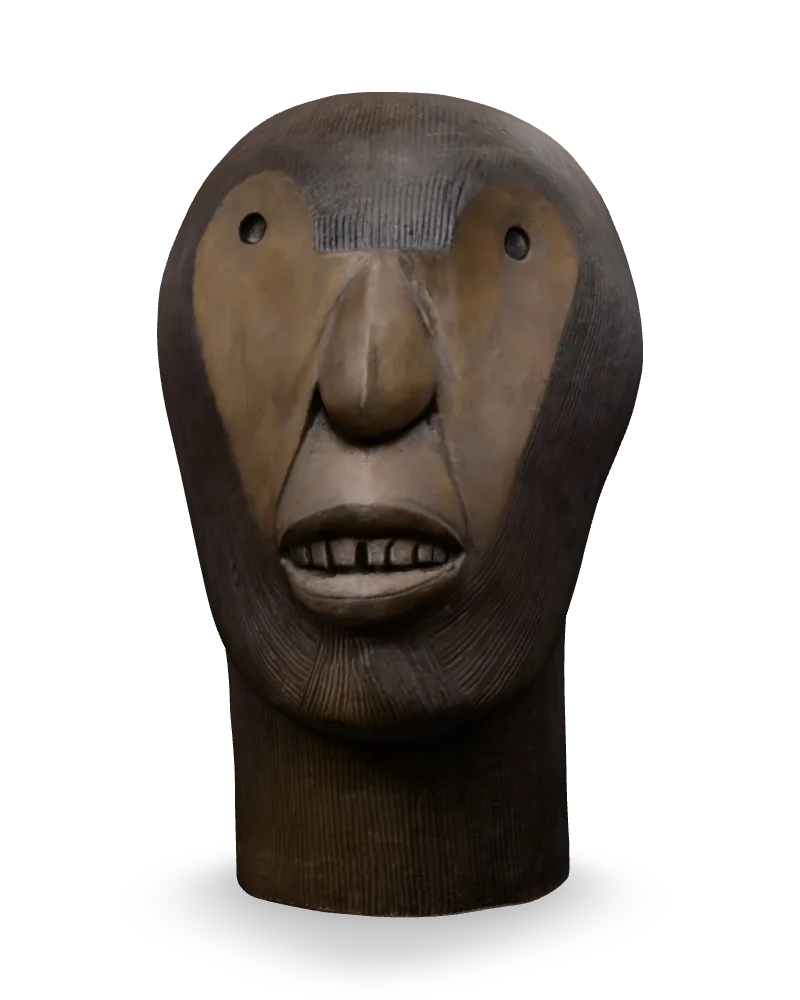
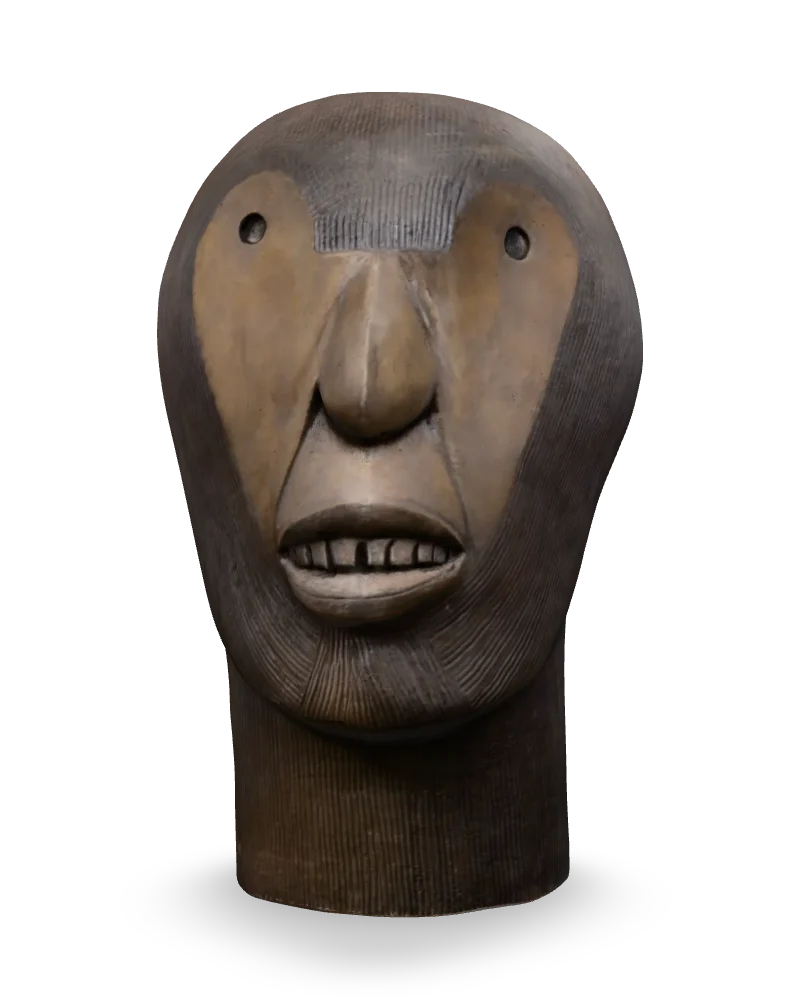
Relight seven works that still looked off
Side Braid, Nose Ring, Mridangam: less light and sheen restored (they looked milky). Bared Teeth, Blue Saree, Trumpeter: more light and reflections, sheen restored (flat, dark faces). Dancing Shiva moves to the house surface with side lights. Thumbnails remade, ?v= bumped.

diff --git a/lib/sculptures.ts b/lib/sculptures.ts
@@ -173,9 +173,9 @@ export const sculptures: Sculpture[] = [
     title: "Dancing Shiva",
     description: "A contemporary sculpture by Thota Vaikuntam.",
     modelUrl: "/sculptures/DancingShivaHero.glb?v=2",
-    look: { rig: "previous" },
+    look: { metalness: 0.15, roughness: 0.6, reflections: 1, light: 1.6, sideLights: 0.7, specular: 1 },
     facing: 290,
-    thumbnail: "/thumbnails/dancing-shiva.webp?v=5",
+    thumbnail: "/thumbnails/dancing-shiva.webp?v=6",
     artistSlug: "thota-vaikuntam",
     featured: true,
     material: "",
@@ -264,9 +264,9 @@ export const sculptures: Sculpture[] = [
     title: "Head with Bared Teeth",
     description: "",
     artistSlug: "himmat-shah",
-    thumbnail: "/thumbnails/shah-head-with-bared-teeth.webp?v=3",
+    thumbnail: "/thumbnails/shah-head-with-bared-teeth.webp?v=4",
     modelUrl: "/sculptures/head-a.glb?v=2",
-    look: { metalness: 0.15, roughness: 1.49, reflections: 0.6 },
+    look: { metalness: 0.15, roughness: 1.49, reflections: 0.9, light: 1.25 },
     material: "Bronze",
     year: "",
     dimensions: "49 × 29 × 35 inches",
@@ -334,9 +334,9 @@ export const sculptures: Sculpture[] = [
     title: "Blue Saree",
     description: "",
     artistSlug: "thota-vaikuntam",
-    thumbnail: "/thumbnails/thota-blue-saree.webp?v=5",
+    thumbnail: "/thumbnails/thota-blue-saree.webp?v=6",
     modelUrl: "/sculptures/female-with-blue-saree.glb?v=4",
-    look: { metalness: 0.17, roughness: 1.06, reflections: 1.2, light: 1.6 },
+    look: { metalness: 0.17, roughness: 1.06, reflections: 1.8, light: 2, specular: 1 },
     material: "Bronze",
     year: "",
     dimensions: "23 × 9 × 7 inches",
@@ -398,9 +398,9 @@ export const sculptures: Sculpture[] = [
     title: "Trumpeter",
     description: "",
     artistSlug: "krishen-khanna",
-    thumbnail: "/thumbnails/khanna-trumpeter.webp?v=5",
+    thumbnail: "/thumbnails/khanna-trumpeter.webp?v=6",
     modelUrl: "/sculptures/khanna-untitled-horn-player.glb",
-    look: { metalness: 0.29, roughness: 1.12, reflections: 0.9, light: 1.4 },
+    look: { metalness: 0.29, roughness: 1.12, reflections: 1.35, light: 1.75, specular: 1 },
     material: "Bronze",
     year: "",
     dimensions: "17 × 9 × 8 inches",
@@ -550,9 +550,9 @@ export const sculptures: Sculpture[] = [
     title: "Man with Mridangam",
     description: "",
     artistSlug: "thota-vaikuntam",
-    thumbnail: "/thumbnails/thota-man-with-mridangam.webp?v=6",
+    thumbnail: "/thumbnails/thota-man-with-mridangam.webp?v=7",
     modelUrl: "/sculptures/thota-man-with-mridangam.glb",
-    look: { metalness: 0.15, roughness: 1.61, reflections: 0.6, light: 1.3, sideLights: 0.5 },
+    look: { metalness: 0.15, roughness: 1.61, reflections: 0.6, light: 1.04, sideLights: 0.5, specular: 1 },
     material: "Bronze",
     year: "",
     dimensions: "59 × 24 × 23 inches",
@@ -635,9 +635,9 @@ export const sculptures: Sculpture[] = [
     title: "Female Head with Side Braid and Green Collar",
     description: "",
     artistSlug: "thota-vaikuntam",
-    thumbnail: "/thumbnails/thota-female-head-with-side-braid.webp?v=6",
+    thumbnail: "/thumbnails/thota-female-head-with-side-braid.webp?v=7",
     modelUrl: "/sculptures/thota-female-head-05.glb",
-    look: { metalness: 0.26, roughness: 1.53, reflections: 0.6, light: 1.2, sideLights: 0.5 },
+    look: { metalness: 0.26, roughness: 1.53, reflections: 0.6, light: 0.96, sideLights: 0.5, specular: 1 },
     material: "Bronze",
     year: "2025",
     dimensions: "25 × 17 × 24 inches",
@@ -771,9 +771,9 @@ export const sculptures: Sculpture[] = [
     title: "Female Head with Nose Ring and Red Collar",
     description: "",
     artistSlug: "thota-vaikuntam",
-    thumbnail: "/thumbnails/thota-female-head-with-nose-ring.webp?v=3",
+    thumbnail: "/thumbnails/thota-female-head-with-nose-ring.webp?v=4",
     modelUrl: "/sculptures/thota-female-head-07.glb",
-    look: { metalness: 0.32, roughness: 1.49, reflections: 0.6, light: 0.9 },
+    look: { metalness: 0.32, roughness: 1.49, reflections: 0.6, light: 0.72 },
     facing: 260,
     material: "Bronze",
     year: "2025",

diff --git a/docs/lighting-progress.md b/docs/lighting-progress.md
@@ -33,6 +33,14 @@ Copying its `look` numbers would not give the same result, because `look` multip
 
 Applied to every work in commit `ee3008d`, except: the Lady (washes out grey; keeps her own look), Lord Krishna, Pandit and Dancing Shiva (old light by choice), and Seated Bandsman with Horn (its scan has sheen 0, so roughness changes nothing). A model with no metal map and metalness 0 stays paint. `scripts/.tmp-matstats.mjs` (untracked) prints each work's resulting values.
 
+### Tuned after the house look (2026-11-18)
+The user found seven works still off on their artwork pages. Picked from variant renders against the reference head:
+- Side Braid, Nose Ring, Man with Mridangam: a milky grey veil (their paint is about twice as light as the reference, so the shared light bleached it in the tone mapping). `light` × 0.8, and `specular: 1` where the scan had sheen 0.
+- Head with Bared Teeth, Blue Saree, Trumpeter: flat, dark faces. `light` × 1.25 and `reflections` × 1.5, plus `specular: 1` (Blue Saree, Trumpeter).
+- Dancing Shiva: moved off the old light onto the house surface, `{ metalness: 0.15, roughness: 0.6, reflections: 1, light: 1.6, sideLights: 0.7, specular: 1 }`. Its hair is near-black in the scan's own colours.
+
+Lesson: the house surface fixes the shine, but works with light paint need less light and scans with sheen 0 need `specular: 1`, or they look milky or flat.
+
 ## Settings before the house look
 The table below is the history up to 2026-11-17. The metalness/roughness/reflections in it were replaced by the house look; the brightness settings still apply.
 
